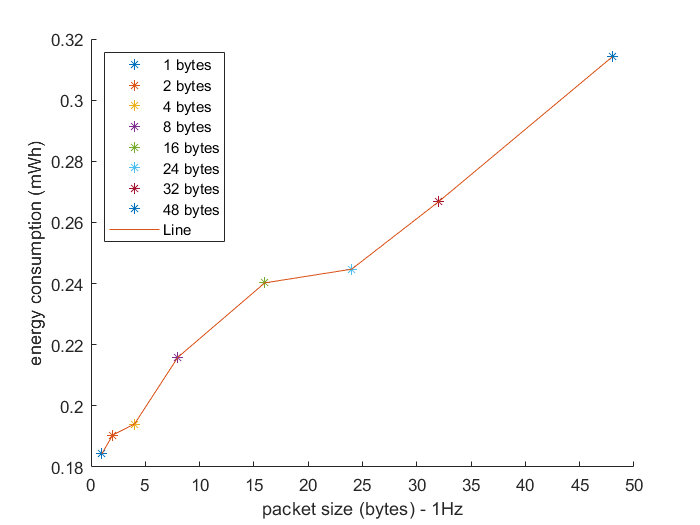
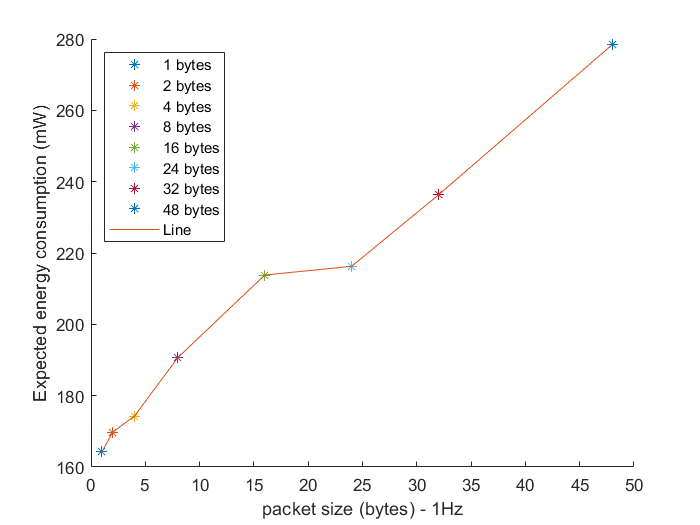
Update information

diff --git a/EXPERIMENT_bytes_and_transmission/Compare_time_transmission.m b/EXPERIMENT_bytes_and_transmission/Compare_time_transmission.m
@@ -1,5 +1,6 @@
 % Experiment time
-delta_t = 0.001;
+delta_t = 0.01;
+% Power supply 5V
 
 load('Experiment_1Hz_48bytes.mat')
 time = data{end}.Values.Time;
@@ -39,18 +40,7 @@ plot(time, pinst_48bytes(1:length(time)));
 xlabel("time (s)");
 ylabel("instantaneous power (mW)");
 legend("16 bytes", "24 bytes", "32 bytes", "48 bytes");
-%% 
 
-load('Experiment_1Hz_64bytes.mat')
-time = data{end}.Values.Time;
-pinst_64bytes = double(reshape(data{end}.Values.Data,[],1));
-
-figure; hold on;
-plot(time, pinst_64bytes(1:length(time)));
-
-xlabel("time (s)");
-ylabel("instantaneous power (mW)");
-legend("64 bytes");
 %% 
 
 e_c_1bytes = 0;
@@ -62,25 +52,18 @@ e_c_24bytes = 0;
 e_c_32bytes = 0;
 e_c_48bytes = 0;
 
+for i=1:60 % Expected in one hour
 for i=1:length(time)
-    e_c_1bytes = e_c_1bytes + pinst_1bytes(i) * delta_t;
-    e_c_2bytes = e_c_2bytes + pinst_2bytes(i) * delta_t;
-    e_c_4bytes = e_c_4bytes + pinst_4bytes(i) * delta_t;
-    e_c_8bytes = e_c_8bytes + pinst_8bytes(i) * delta_t;
-    e_c_16bytes = e_c_16bytes + pinst_16bytes(i) * delta_t;
-    e_c_24bytes = e_c_24bytes + pinst_24bytes(i) * delta_t;
-    e_c_32bytes = e_c_32bytes + pinst_32bytes(i) * delta_t;
-    e_c_48bytes = e_c_48bytes + pinst_48bytes(i) * delta_t;
+    e_c_1bytes = e_c_1bytes + pinst_1bytes(i) * (delta_t / 3600.0);
+    e_c_2bytes = e_c_2bytes + pinst_2bytes(i) * (delta_t / 3600.0);
+    e_c_4bytes = e_c_4bytes + pinst_4bytes(i) * (delta_t / 3600.0);
+    e_c_8bytes = e_c_8bytes + pinst_8bytes(i) * (delta_t / 3600.0);
+    e_c_16bytes = e_c_16bytes + pinst_16bytes(i) * (delta_t / 3600.0);
+    e_c_24bytes = e_c_24bytes + pinst_24bytes(i) * (delta_t / 3600.0);
+    e_c_32bytes = e_c_32bytes + pinst_32bytes(i) * (delta_t / 3600.0);
+    e_c_48bytes = e_c_48bytes + pinst_48bytes(i) * (delta_t / 3600.0);
 end
-FC = 1/3600; % de segundos a horas
-e_c_1bytes = e_c_1bytes * FC;
-e_c_2bytes = e_c_2bytes * FC;
-e_c_4bytes = e_c_4bytes * FC;
-e_c_8bytes = e_c_8bytes * FC;
-e_c_16bytes = e_c_16bytes * FC;
-e_c_24bytes = e_c_24bytes * FC;
-e_c_32bytes = e_c_32bytes * FC;
-e_c_48bytes = e_c_48bytes * FC;
+end
 
 figure; hold on;
 plot(1, e_c_1bytes, '*')
@@ -95,5 +78,22 @@ plot([1 2 4 8 16 24 32 48], [e_c_1bytes e_c_2bytes e_c_4bytes e_c_8bytes e_c_16b
 
 
 xlabel("packet size (bytes) - 1Hz");
-ylabel("energy consumption (mWh)");
+ylabel("Expected energy consumption (mW)");
 legend("1 bytes", "2 bytes", "4 bytes", "8 bytes", "16 bytes", "24 bytes", "32 bytes", "48 bytes", "Line", 'Location', 'northwest');
+
+% VDD = 5;
+% figure; hold on;
+% plot(1, e_c_1bytes/VDD, '*')
+% plot(2, e_c_2bytes/VDD, '*')
+% plot(4, e_c_4bytes/VDD, '*')
+% plot(8, e_c_8bytes/VDD, '*')
+% plot(16, e_c_16bytes/VDD, '*')
+% plot(24, e_c_24bytes/VDD, '*')
+% plot(32, e_c_32bytes/VDD, '*')
+% plot(48, e_c_48bytes/VDD, '*')
+% plot([1 2 4 8 16 24 32 48], [e_c_1bytes e_c_2bytes e_c_4bytes e_c_8bytes e_c_16bytes e_c_24bytes e_c_32bytes e_c_48bytes]/VDD)
+% 
+% 
+% xlabel("packet size (bytes) - 1Hz");
+% ylabel("Expected energy consumption (mAh)");
+% legend("1 bytes", "2 bytes", "4 bytes", "8 bytes", "16 bytes", "24 bytes", "32 bytes", "48 bytes", "Line", 'Location', 'northwest');

diff --git a/EXPERIMENT_RTT_Delay_Drops/Compare_energy_consumption.m b/EXPERIMENT_RTT_Delay_Drops/Compare_energy_consumption.m
@@ -1,0 +1,22 @@
+delta_t = 0.01;
+
+load('Long_test_5Hz_1_28bytes.mat')
+time = data{4}.Values.Time;
+pinst_1bytes = double(reshape(data{4}.Values.Data,[],1));
+
+% load('Long_test_5Hz_2_48bytes.mat')
+% time = data{5}.Values.Time;
+% pinst_1bytes = double(reshape(data{5}.Values.Data,[],1));
+
+e_c_1bytes = 0;
+
+for i=1:4
+for i=1:length(time)
+    e_c_1bytes = e_c_1bytes + pinst_1bytes(i) * (delta_t / 3600.0);
+end
+end
+
+e_c_1bytes
+
+VDD = 5;
+e_c_1bytes/VDD

diff --git a/EXPERIMENT_RTT_Delay_Drops/Copy_of_Compare_energy_consumption.m b/EXPERIMENT_RTT_Delay_Drops/Copy_of_Compare_energy_consumption.m
@@ -1,0 +1,22 @@
+delta_t = 0.01;
+
+load('Long_test_5Hz_1_28bytes.mat')
+time = data{4}.Values.Time;
+pinst_1bytes = double(reshape(data{4}.Values.Data,[],1));
+
+% load('Long_test_5Hz_2_48bytes.mat')
+% time = data{5}.Values.Time;
+% pinst_1bytes = double(reshape(data{5}.Values.Data,[],1));
+
+e_c_1bytes = 0;
+
+for i=1:4
+for i=1:length(time)
+    e_c_1bytes = e_c_1bytes + pinst_1bytes(i) * (delta_t / 3600.0);
+end
+end
+
+e_c_1bytes
+
+VDD = 5;
+e_c_1bytes/VDD

diff --git a/EXPERIMENT_bytes_and_transmission/Outlier_64bytes.m b/EXPERIMENT_bytes_and_transmission/Outlier_64bytes.m
@@ -1,0 +1,12 @@
+%% 
+
+load('Experiment_1Hz_64bytes.mat')
+time = data{end}.Values.Time;
+pinst_64bytes = double(reshape(data{end}.Values.Data,[],1));
+
+figure; hold on;
+plot(time, pinst_64bytes(1:length(time)));
+
+xlabel("time (s)");
+ylabel("instantaneous power (mW)");
+legend("64 bytes");

diff --git a/README.md b/README.md
@@ -93,6 +93,8 @@ Now, when exceeding 64 bytes, we have to send it in two different packets, gener
 In addition, we can see a quasi-linear relationship between energy consumption and packet size.
 
 ![Arduino DUE](img/energy_consumption.png)
+(*) Extrapolated experiment one hour data.
+
 
 ### Round time trip and dropout probability
 
@@ -105,10 +107,28 @@ In addition, we can see a quasi-linear relationship between energy consumption a
 ![Arduino DUE](img/RTT_DP_32bytes.png)
 ![Arduino DUE](img/RTT_DP_48bytes.png)
 
-## How to calculate the power on the experiments
+## More experiments - long test of 15 minuts at 5Hz packets
 
-## Experiment analysis and conclusions
+### Round time trip and dropout probability
+
+![Arduino DUE](img/RTT_DP_28bytes_5Hz.png)
+
+Extrapolated experiment one hour data.
+
+Expected intensity consumption 108.89 mA.
+
+Expected power consumption 544.48 mW.
+
+![Arduino DUE](img/RTT_DP_48bytes_5Hz.png)
+
+Extrapolated experiment one hour data.
+
+Expected intensity consumption 213.63 mA.
+
+Expected power consumption 1068.2 mW.
+
+The number of collisions (hypothesis) grows up because the RTT and period it's near, 0.2s period and RTT 0.208s.
 
 ## Future experiment
 
-- Send and receive at different channels and address.
+- Send and receive at different channels and address. (Fixed transmission modality of the modules, avoiding packet collisions, improve transmission interval, etc)
